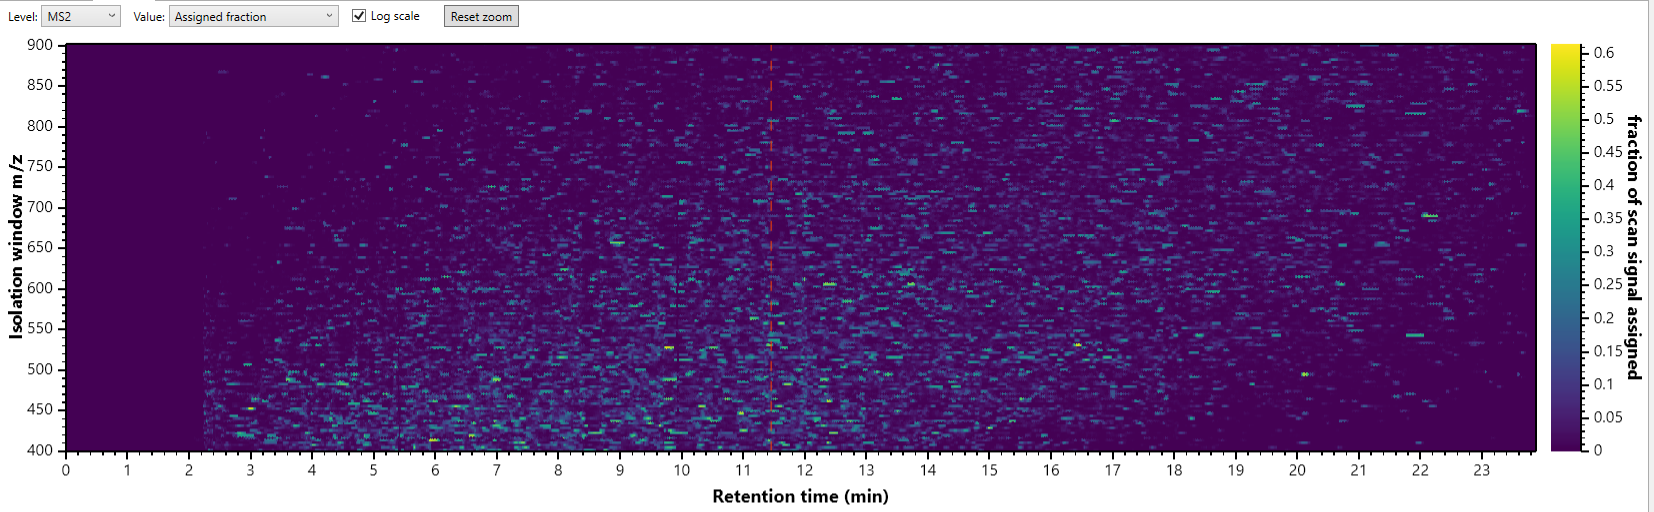
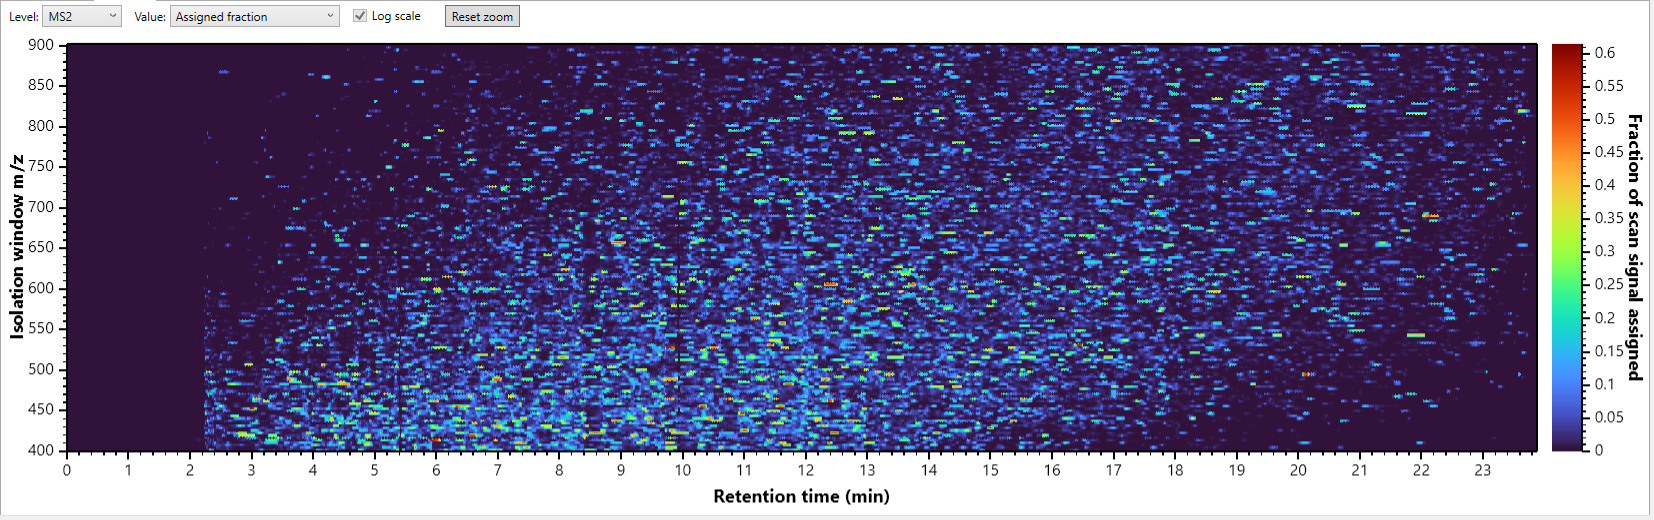
Changed the heatmaps to the Turbo color scale and capitalized their labels
* Added FigureStyle.HeatmapColormap: Turbo, Skyline-PRISM's high-contrast option, in
  place of Viridis, so sparse peptide counts and faint signal stand out
* Capitalized the color bar labels ("Peptides per spectrum", "Log10 binned intensity",
  "Fraction of scan signal assigned") to match the axis titles
* Retook the three heatmap screenshots

diff --git a/src/Glimpse.App/MainWindow.Heatmap.cs b/src/Glimpse.App/MainWindow.Heatmap.cs
@@ -47,13 +47,13 @@ public partial class MainWindow
             case 1 when signals is not null:
                 grid = HeatLevel == 1 ? signals.Ms1Fraction : signals.Ms2Fraction;
                 values = grid.Values;
-                label = HeatLevel == 1 ? "fraction of binned signal assigned" : "fraction of scan signal assigned";
+                label = HeatLevel == 1 ? "Fraction of binned signal assigned" : "Fraction of scan signal assigned";
                 break;
             case 2 when signals is not null:
                 // MS2 only (OnHeatValueChanged): the peptides co-isolated in each window.
                 grid = signals.Ms2Count;
                 values = grid.Values;
-                label = "peptides per spectrum";
+                label = "Peptides per spectrum";
                 break;
             case 1 or 2:
                 plot.Title(_document.Precursors.Count == 0 ? "Needs a Skyline document with results" : "Measuring document signals...");
@@ -62,7 +62,8 @@ public partial class MainWindow
             default:
                 grid = HeatLevel == 1 ? _run.Heatmaps.Ms1 : _run.Heatmaps.Ms2;
                 values = grid.For(Units);
-                label = (log ? "log10 " : "") + (HeatLevel == 1 ? "binned " : "scan ") + (Units == Core.Data.IntensityUnits.Ions ? "ions" : "intensity");
+                label = (log ? "Log10 " : "") + (HeatLevel == 1 ? "binned " : "scan ") + (Units == Core.Data.IntensityUnits.Ions ? "ions" : "intensity");
+                label = char.ToUpperInvariant(label[0]) + label[1..];
                 break;
         }
         if (grid.IsEmpty)
@@ -73,7 +74,7 @@ public partial class MainWindow
         }
 
         var heat = plot.Add.Heatmap(ToDisplay(values, log));
-        heat.Colormap = new ScottPlot.Colormaps.Viridis();
+        heat.Colormap = Glimpse.Plotting.FigureStyle.HeatmapColormap();
         heat.NaNCellColor = Colors.Transparent;
         heat.Extent = new CoordinateRect(left: grid.RtLow, right: grid.RtHigh, bottom: grid.MzLow, top: grid.MzHigh);
         _colorBar = plot.Add.ColorBar(heat);

diff --git a/src/Glimpse.Plotting/FigureStyle.cs b/src/Glimpse.Plotting/FigureStyle.cs
@@ -30,6 +30,12 @@ public static class FigureStyle
     /// <summary>XIC line width: heavy for a few traces, hairlines when hundreds overlap and density is the point.</summary>
     public static float XicWidth(int traceCount) => traceCount > 200 ? 1f : traceCount > 20 ? 1.5f : 2.5f;
 
+    /// <summary>
+    /// The heatmaps' color scale: Turbo, the high-contrast map Skyline-PRISM offers for picking out fine
+    /// structure. Sparse peptide counts and faint intensity show up better in it than in Viridis.
+    /// </summary>
+    public static IColormap HeatmapColormap() => new ScottPlot.Colormaps.Turbo();
+
     public static void Apply(Plot plot, string xLabel, string yLabel)
     {
         plot.XLabel(xLabel);

diff --git a/tests/Glimpse.Tests/PlottingTests.cs b/tests/Glimpse.Tests/PlottingTests.cs
@@ -199,6 +199,7 @@ public class FigureStyleTests
         Assert.Equal(1.5f, FigureStyle.XicWidth(21));
         Assert.Equal(1.5f, FigureStyle.XicWidth(200));
         Assert.Equal(1f, FigureStyle.XicWidth(201));
+        Assert.IsType<ScottPlot.Colormaps.Turbo>(FigureStyle.HeatmapColormap());
         Assert.Equal(2f, FigureStyle.TraceWidth);
 
         var sticks = new StickPlottable(new[] { 100.0 }, new[] { 1.0 });

diff --git a/release-notes/RELEASE_NOTES_next.md b/release-notes/RELEASE_NOTES_next.md
@@ -7,6 +7,8 @@ One-sentence summary of the release (written at release time).
 - The peptides-per-spectrum heatmap is drawn on a linear scale, as in Skyline-PRISM: it counts a few to a few
   tens of peptides, which a log scale only compressed. Log scale now applies to the intensity heatmap only, and
   is greyed out for the other values.
+- Heatmaps use the Turbo color scale (Skyline-PRISM's high-contrast option) instead of Viridis, so sparse
+  peptide counts and faint signal stand out.
 
 ## Bug Fixes
 
